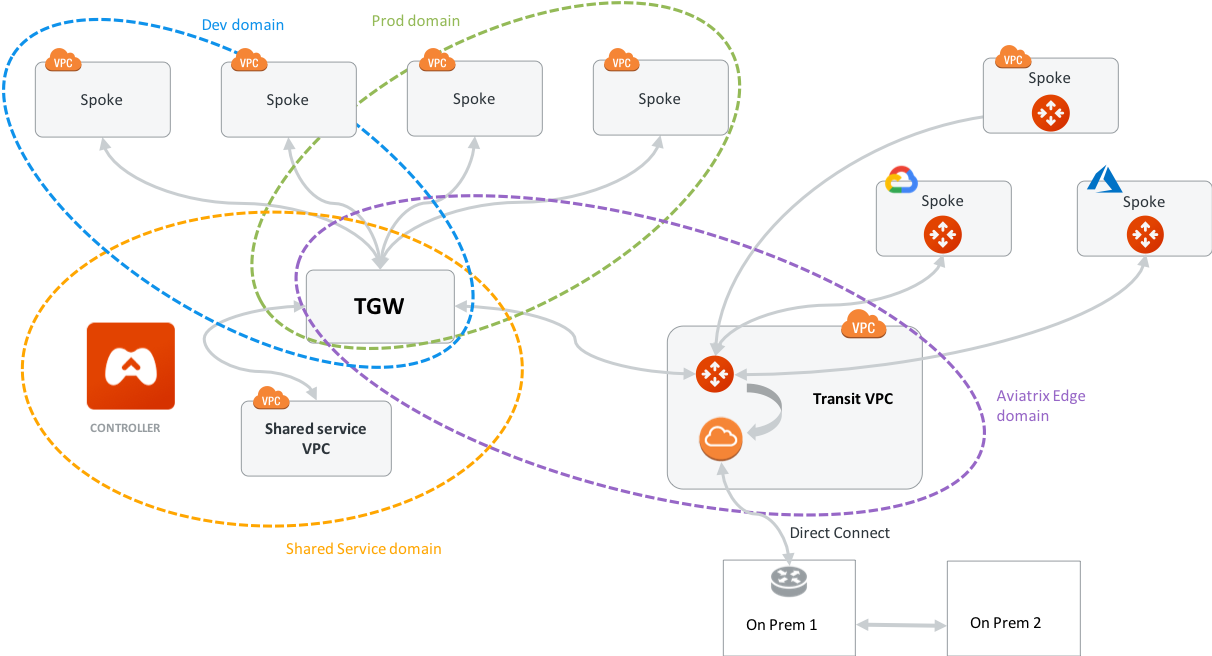
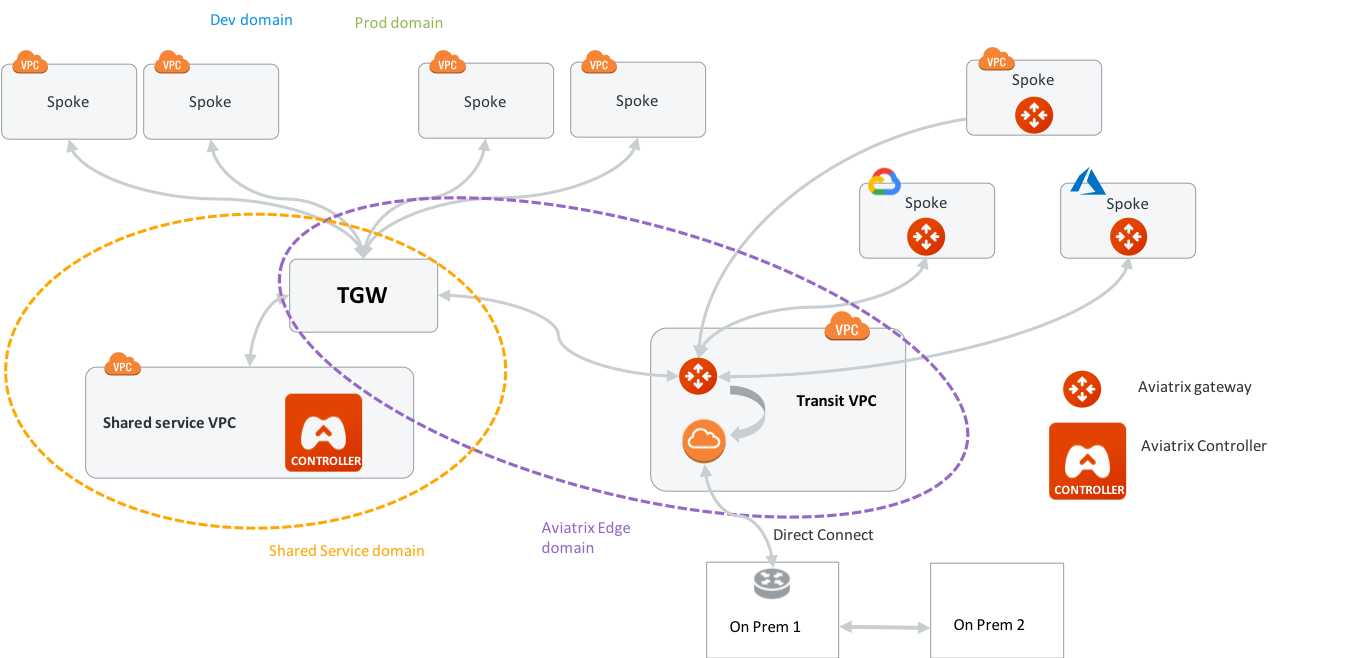
add design pattern

diff --git a/HowTos/tgw_design_patterns.rst b/HowTos/tgw_design_patterns.rst
@@ -1,0 +1,34 @@
+.. meta::
+  :description: TGW Orchestrator Overview
+  :keywords: AWS TGW, TGW orchestrator, Aviatrix Transit network
+
+
+=========================================================
+TGW Orchestrator Design Patterns
+=========================================================
+
+Default_Domain Design
+--------------------------
+
+If you just want a full mesh connectivity between VPCs and on-prem, you do not need to create any more domains. Just the built-in Default_Domain and Aviatrix_Edge_Domain for the full deployment, as shown below. 
+
+|default_domain_design|
+
+
+
+.. |tgw_overview| image:: tgw_overview_media/tgw_overview.png
+   :scale: 30%
+
+.. |default_domain_design| image:: tgw_overview_media/default_domain_design.png
+   :scale: 30%
+
+.. |image4| image:: transitvpc_workflow_media/launchSpokeGW.png
+   :scale: 50%
+
+.. |image5| image:: transitvpc_workflow_media/AttachSpokeGW.png
+   :scale: 50%
+
+.. |image6| image:: transitvpc_workflow_media/AttachMoreSpoke.png
+   :scale: 50%
+
+.. disqus::

diff --git a/index.rst b/index.rst
@@ -302,3 +302,4 @@ While all content is searchable, the site is organized into the following sectio
    HowTos/tgw_faq
    HowTos/tgw_plan
    HowTos/tgw_build
+   HowTos/tgw_design_patterns
